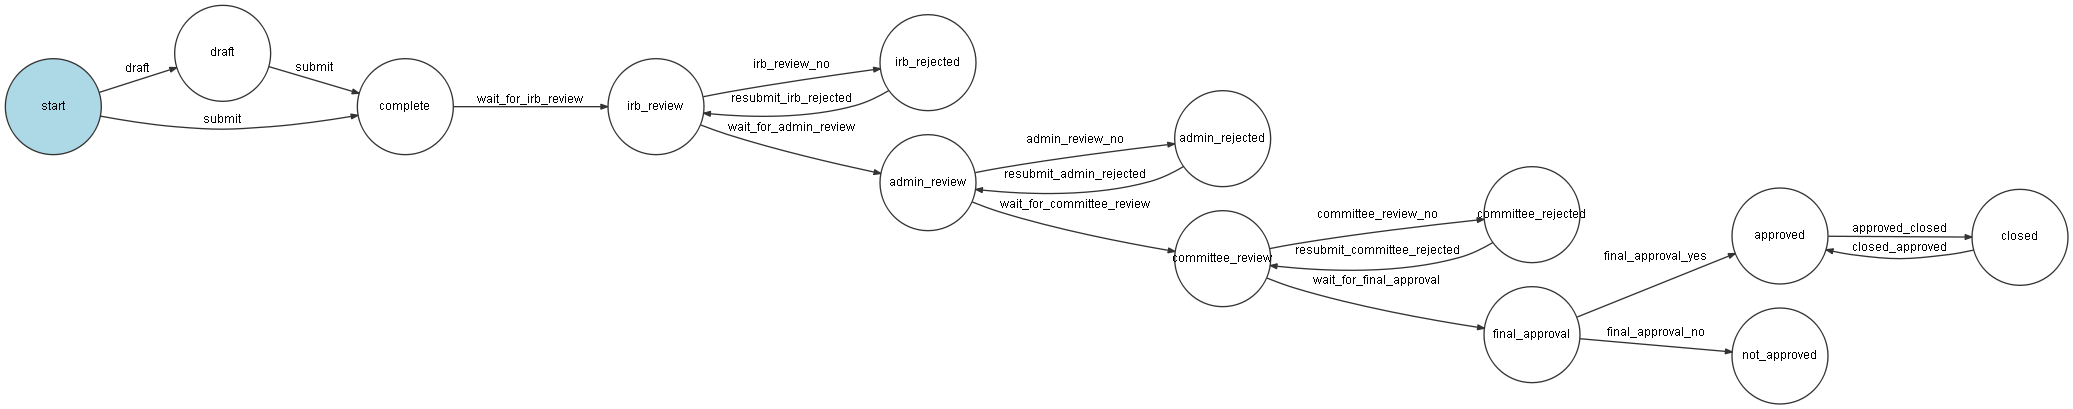
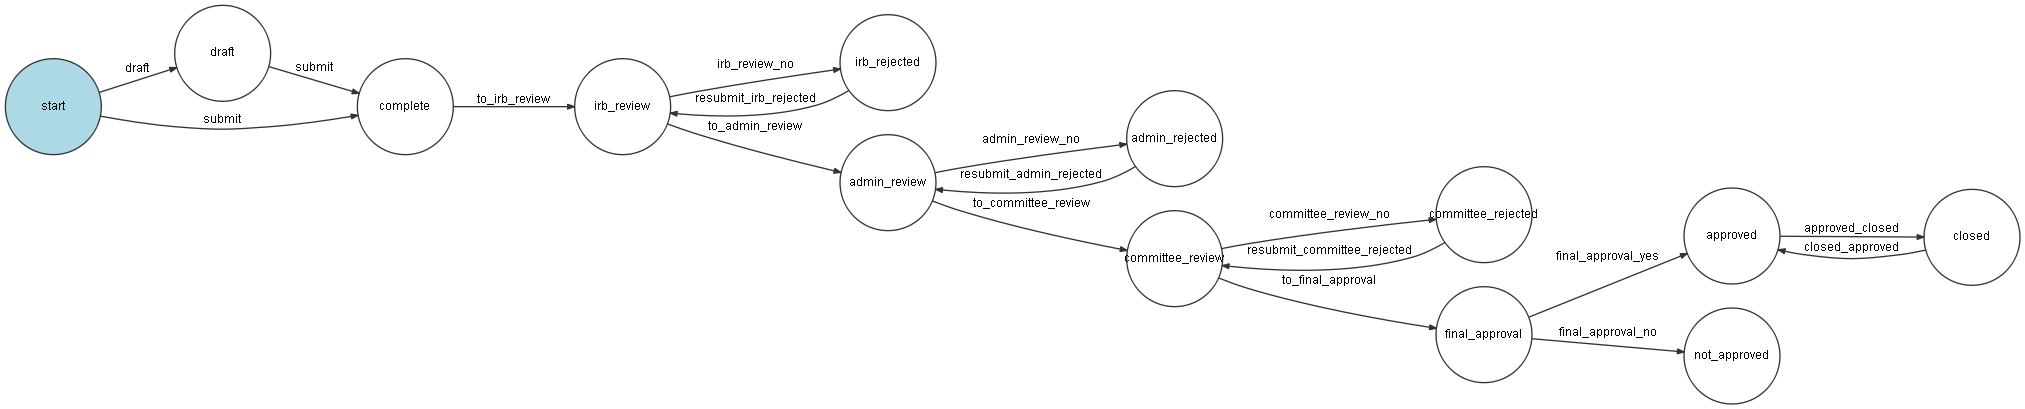
working on workflow

diff --git a/Scanorders2/src/Oleg/TranslationalResearchBundle/Controller/WorkflowController.php b/Scanorders2/src/Oleg/TranslationalResearchBundle/Controller/WorkflowController.php
@@ -1,0 +1,125 @@
+<?php
+/**
+ * Copyright (c) 2017 Cornell University
+ *
+ *  Licensed under the Apache License, Version 2.0 (the "License");
+ *  you may not use this file except in compliance with the License.
+ *  You may obtain a copy of the License at
+ *
+ *  http://www.apache.org/licenses/LICENSE-2.0
+ *
+ *  Unless required by applicable law or agreed to in writing, software
+ *  distributed under the License is distributed on an "AS IS" BASIS,
+ *  WITHOUT WARRANTIES OR CONDITIONS OF ANY KIND, either express or implied.
+ *  See the License for the specific language governing permissions and
+ *  limitations under the License.
+ */
+
+/**
+ * Created by PhpStorm.
+ * User: ch3
+ * Date: 8/24/2017
+ * Time: 4:41 PM
+ */
+
+namespace Oleg\TranslationalResearchBundle\Controller;
+
+
+use Oleg\TranslationalResearchBundle\Entity\Project;
+use Symfony\Bundle\FrameworkBundle\Controller\Controller;
+use Sensio\Bundle\FrameworkExtraBundle\Configuration\Method;
+use Sensio\Bundle\FrameworkExtraBundle\Configuration\Route;
+use Sensio\Bundle\FrameworkExtraBundle\Configuration\Template;
+use Symfony\Component\Form\Exception\LogicException;
+
+class WorkflowController extends Controller
+{
+
+    /**
+     * Dump Workflows
+     *
+     * @Route("/workflow/", name="translationalresearch_workflow_show")
+     */
+    public function dumpWorkflowAction(Request $request)
+    {
+//        $definitionBuilder = new DefinitionBuilder();
+//        $definition = $definitionBuilder->addPlaces(['draft', 'review', 'rejected', 'published'])
+//            // Transitions are defined with a unique name, an origin place and a destination place
+//            ->addTransition(new Transition('to_review', 'draft', 'review'))
+//            ->addTransition(new Transition('publish', 'review', 'published'))
+//            ->addTransition(new Transition('reject', 'review', 'rejected'))
+//            ->build()
+//        ;
+//
+//        $dumper = new GraphvizDumper();
+//        //echo $dumper->dump($definition);
+//
+//        $graphviz = new GraphViz();
+//        $graphviz->display($dumper);
+
+        //$file = 'semitransparent.png'; // path to png image
+        //$img = imagecreatefrompng($file); // open image
+
+        $webpath = $this->get('kernel')->getRootDir();
+        //echo "webPath=$webpath<br>";
+        //exit();
+
+        //png is generated by Graphviz2.38:
+        //$ php bin/console workflow:dump transres_project | "C:\Program Files (x86)\Graphviz2.38\bin\dot.exe" -Tpng -o graph.png
+        $file = $webpath."/../src/Oleg/TranslationalResearchBundle/Util/graph.png";
+        if (!file_exists($file)) {
+            exit("File not exists ".$file);
+        }
+
+        $imagename = "Project Workflow";
+
+        header("Content-Type: image/png");
+        header('Content-Length: ' . filesize($file));
+        header("Content-Disposition: inline; filename='$imagename'");
+        readfile($file);
+        exit(0);
+    }
+
+
+    /**
+     * https://symfony.com/doc/current/workflow/usage.html
+     *
+     * @Route("/to-irb-review/{id}", name="translationalresearch_to_irb_review")
+     * @Method("GET")
+     */
+    public function homeAction( Project $project )
+    {
+        $workflow = $this->container->get('state_machine.transres_project');
+
+        $workflow->can($project, 'to_irb_review'); // True
+        $workflow->can($project, 'to_admin_review'); // False
+
+        // Update the currentState on the post
+        if( $workflow->can($project, 'to_irb_review') ) {
+            try {
+                $workflow->apply($project, 'to_irb_review');
+                //change status
+                $project->setStatus('irb_review');
+                $this->addFlash(
+                    'error',
+                    'change status to IRB Review OK.'
+                );
+            } catch (LogicException $e) {
+                $this->addFlash(
+                    'error',
+                    'change status to IRB Review failed.'
+                );
+            }
+        }
+
+        // See all the available transition for the post in the current state
+        $transitions = $workflow->getEnabledTransitions($project);
+        echo "<pre>";
+        print_r($transitions);
+        echo "</pre>";
+
+        return $this->redirectToRoute('translationalresearch_home');
+    }
+
+
+}

diff --git a/Scanorders2/src/Oleg/TranslationalResearchBundle/Controller/ProjectController.php b/Scanorders2/src/Oleg/TranslationalResearchBundle/Controller/ProjectController.php
@@ -1,8 +1,23 @@
 <?php
+/**
+ * Copyright (c) 2017 Cornell University
+ *
+ *  Licensed under the Apache License, Version 2.0 (the "License");
+ *  you may not use this file except in compliance with the License.
+ *  You may obtain a copy of the License at
+ *
+ *  http://www.apache.org/licenses/LICENSE-2.0
+ *
+ *  Unless required by applicable law or agreed to in writing, software
+ *  distributed under the License is distributed on an "AS IS" BASIS,
+ *  WITHOUT WARRANTIES OR CONDITIONS OF ANY KIND, either express or implied.
+ *  See the License for the specific language governing permissions and
+ *  limitations under the License.
+ */
 
 namespace Oleg\TranslationalResearchBundle\Controller;
 
-use Graphp\GraphViz\GraphViz;
+//use Graphp\GraphViz\GraphViz;
 use Oleg\TranslationalResearchBundle\Entity\Project;
 use Oleg\TranslationalResearchBundle\Form\ProjectType;
 use Symfony\Bundle\FrameworkBundle\Controller\Controller;
@@ -235,49 +250,4 @@ class ProjectController extends Controller
         ;
     }
 
-
-    /**
-     * Dump Workflows
-     *
-     * @Route("/workflow/", name="translationalresearch_workflow_show")
-     */
-    public function dumpWorkflowAction(Request $request)
-    {
-//        $definitionBuilder = new DefinitionBuilder();
-//        $definition = $definitionBuilder->addPlaces(['draft', 'review', 'rejected', 'published'])
-//            // Transitions are defined with a unique name, an origin place and a destination place
-//            ->addTransition(new Transition('to_review', 'draft', 'review'))
-//            ->addTransition(new Transition('publish', 'review', 'published'))
-//            ->addTransition(new Transition('reject', 'review', 'rejected'))
-//            ->build()
-//        ;
-//
-//        $dumper = new GraphvizDumper();
-//        //echo $dumper->dump($definition);
-//
-//        $graphviz = new GraphViz();
-//        $graphviz->display($dumper);
-
-        //$file = 'semitransparent.png'; // path to png image
-        //$img = imagecreatefrompng($file); // open image
-
-        $webpath = $this->get('kernel')->getRootDir();
-        //echo "webPath=$webpath<br>";
-        //exit();
-
-        //png is generated by Graphviz2.38:
-        //$ php bin/console workflow:dump transres_project | "C:\Program Files (x86)\Graphviz2.38\bin\dot.exe" -Tpng -o graph.png
-        $file = $webpath."/../src/Oleg/TranslationalResearchBundle/Util/graph.png";
-        if (!file_exists($file)) {
-            exit("File not exists ".$file);
-        }
-
-        $imagename = "Project Workflow";
-
-        header("Content-Type: image/png");
-        header('Content-Length: ' . filesize($file));
-        header("Content-Disposition: inline; filename='$imagename'");
-        readfile($file);
-        exit(0);
-    }
 }
